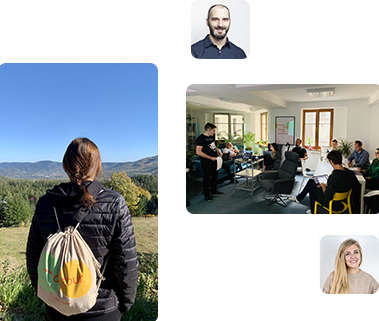
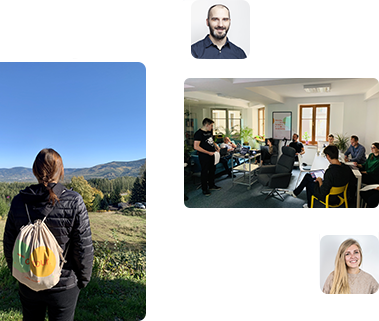
better looks

diff --git a/_sass/modules/_career-offers.scss b/_sass/modules/_career-offers.scss
@@ -4,9 +4,10 @@
 
   &_tiles {
     display: flex;
+    flex-wrap: wrap;
     width: 100%;
     padding-top: 40px;
-    padding-bottom: 80px;
+    padding-bottom: 40px;
   }
 
   &_tile {
@@ -15,6 +16,7 @@
     width: 240px;
     height: 240px;
     margin-right: 30px;
+    margin-bottom: 40px;
     padding: 30px 40px;
     position: relative;
     background-color: #fff;
